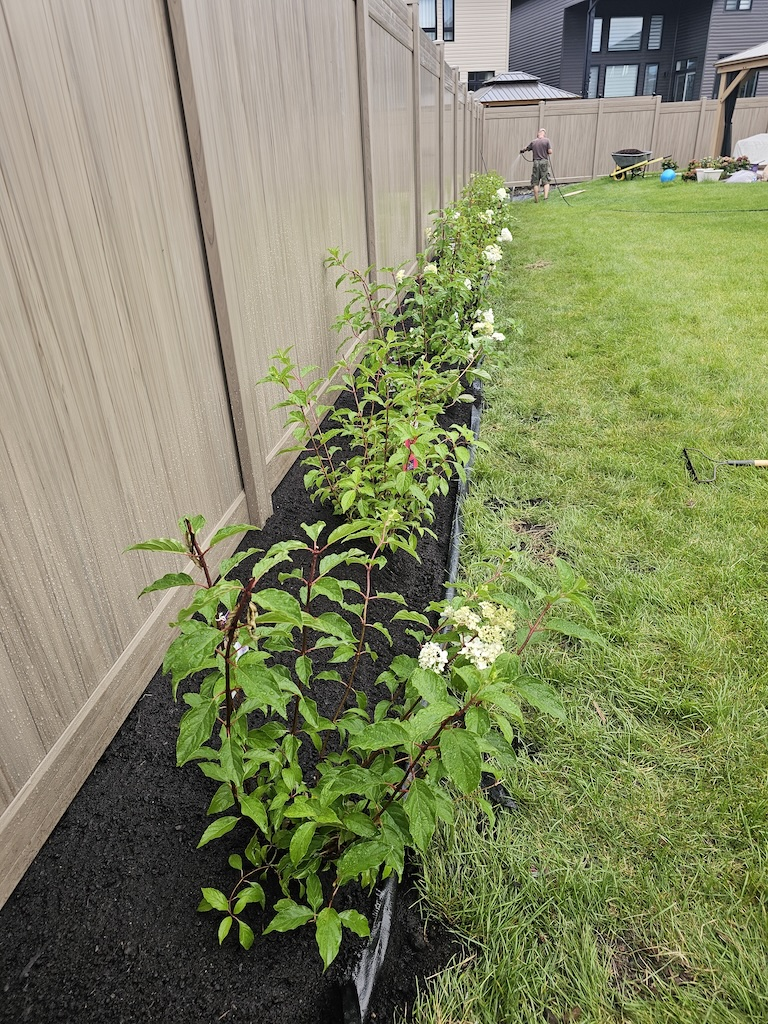
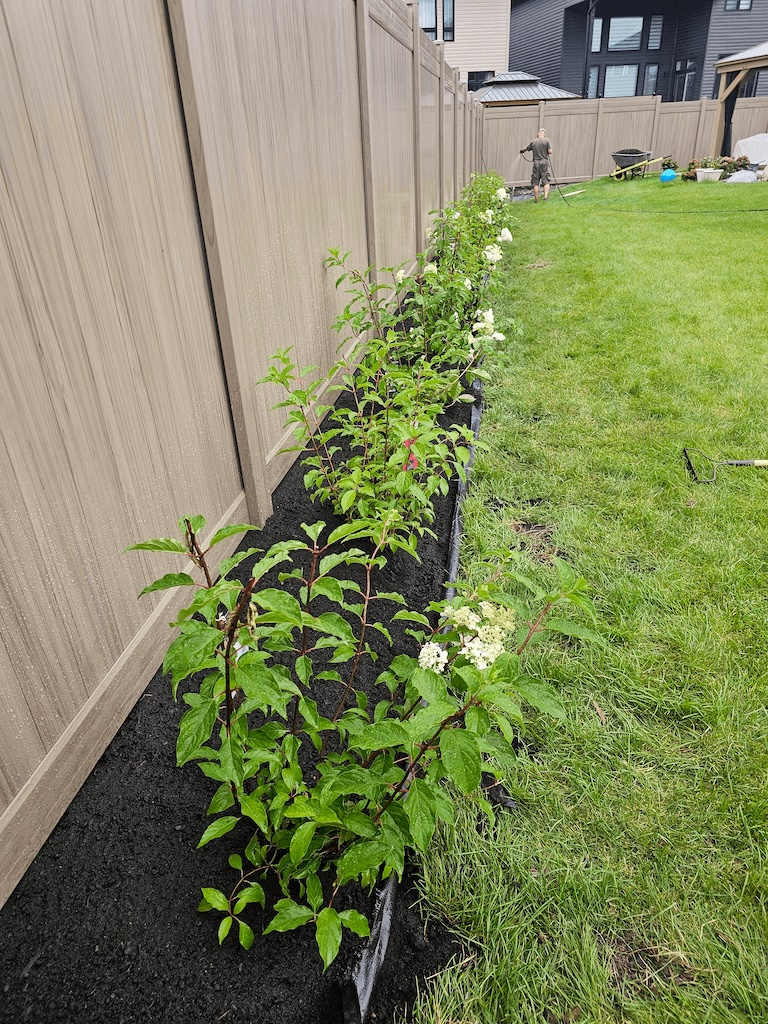
retry of making pics smaller

diff --git a/src/app/globals.css b/src/app/globals.css
@@ -68,7 +68,7 @@ a.nav-link {
 .background-div {
   width: 100%; 
   height: 500px;
-  background-image: url('../../public/pic2.png');
+  background-image: url('../../public/pic2a.jpg');
   background-size: cover; 
   background-position: center; 
   background-repeat: no-repeat;
